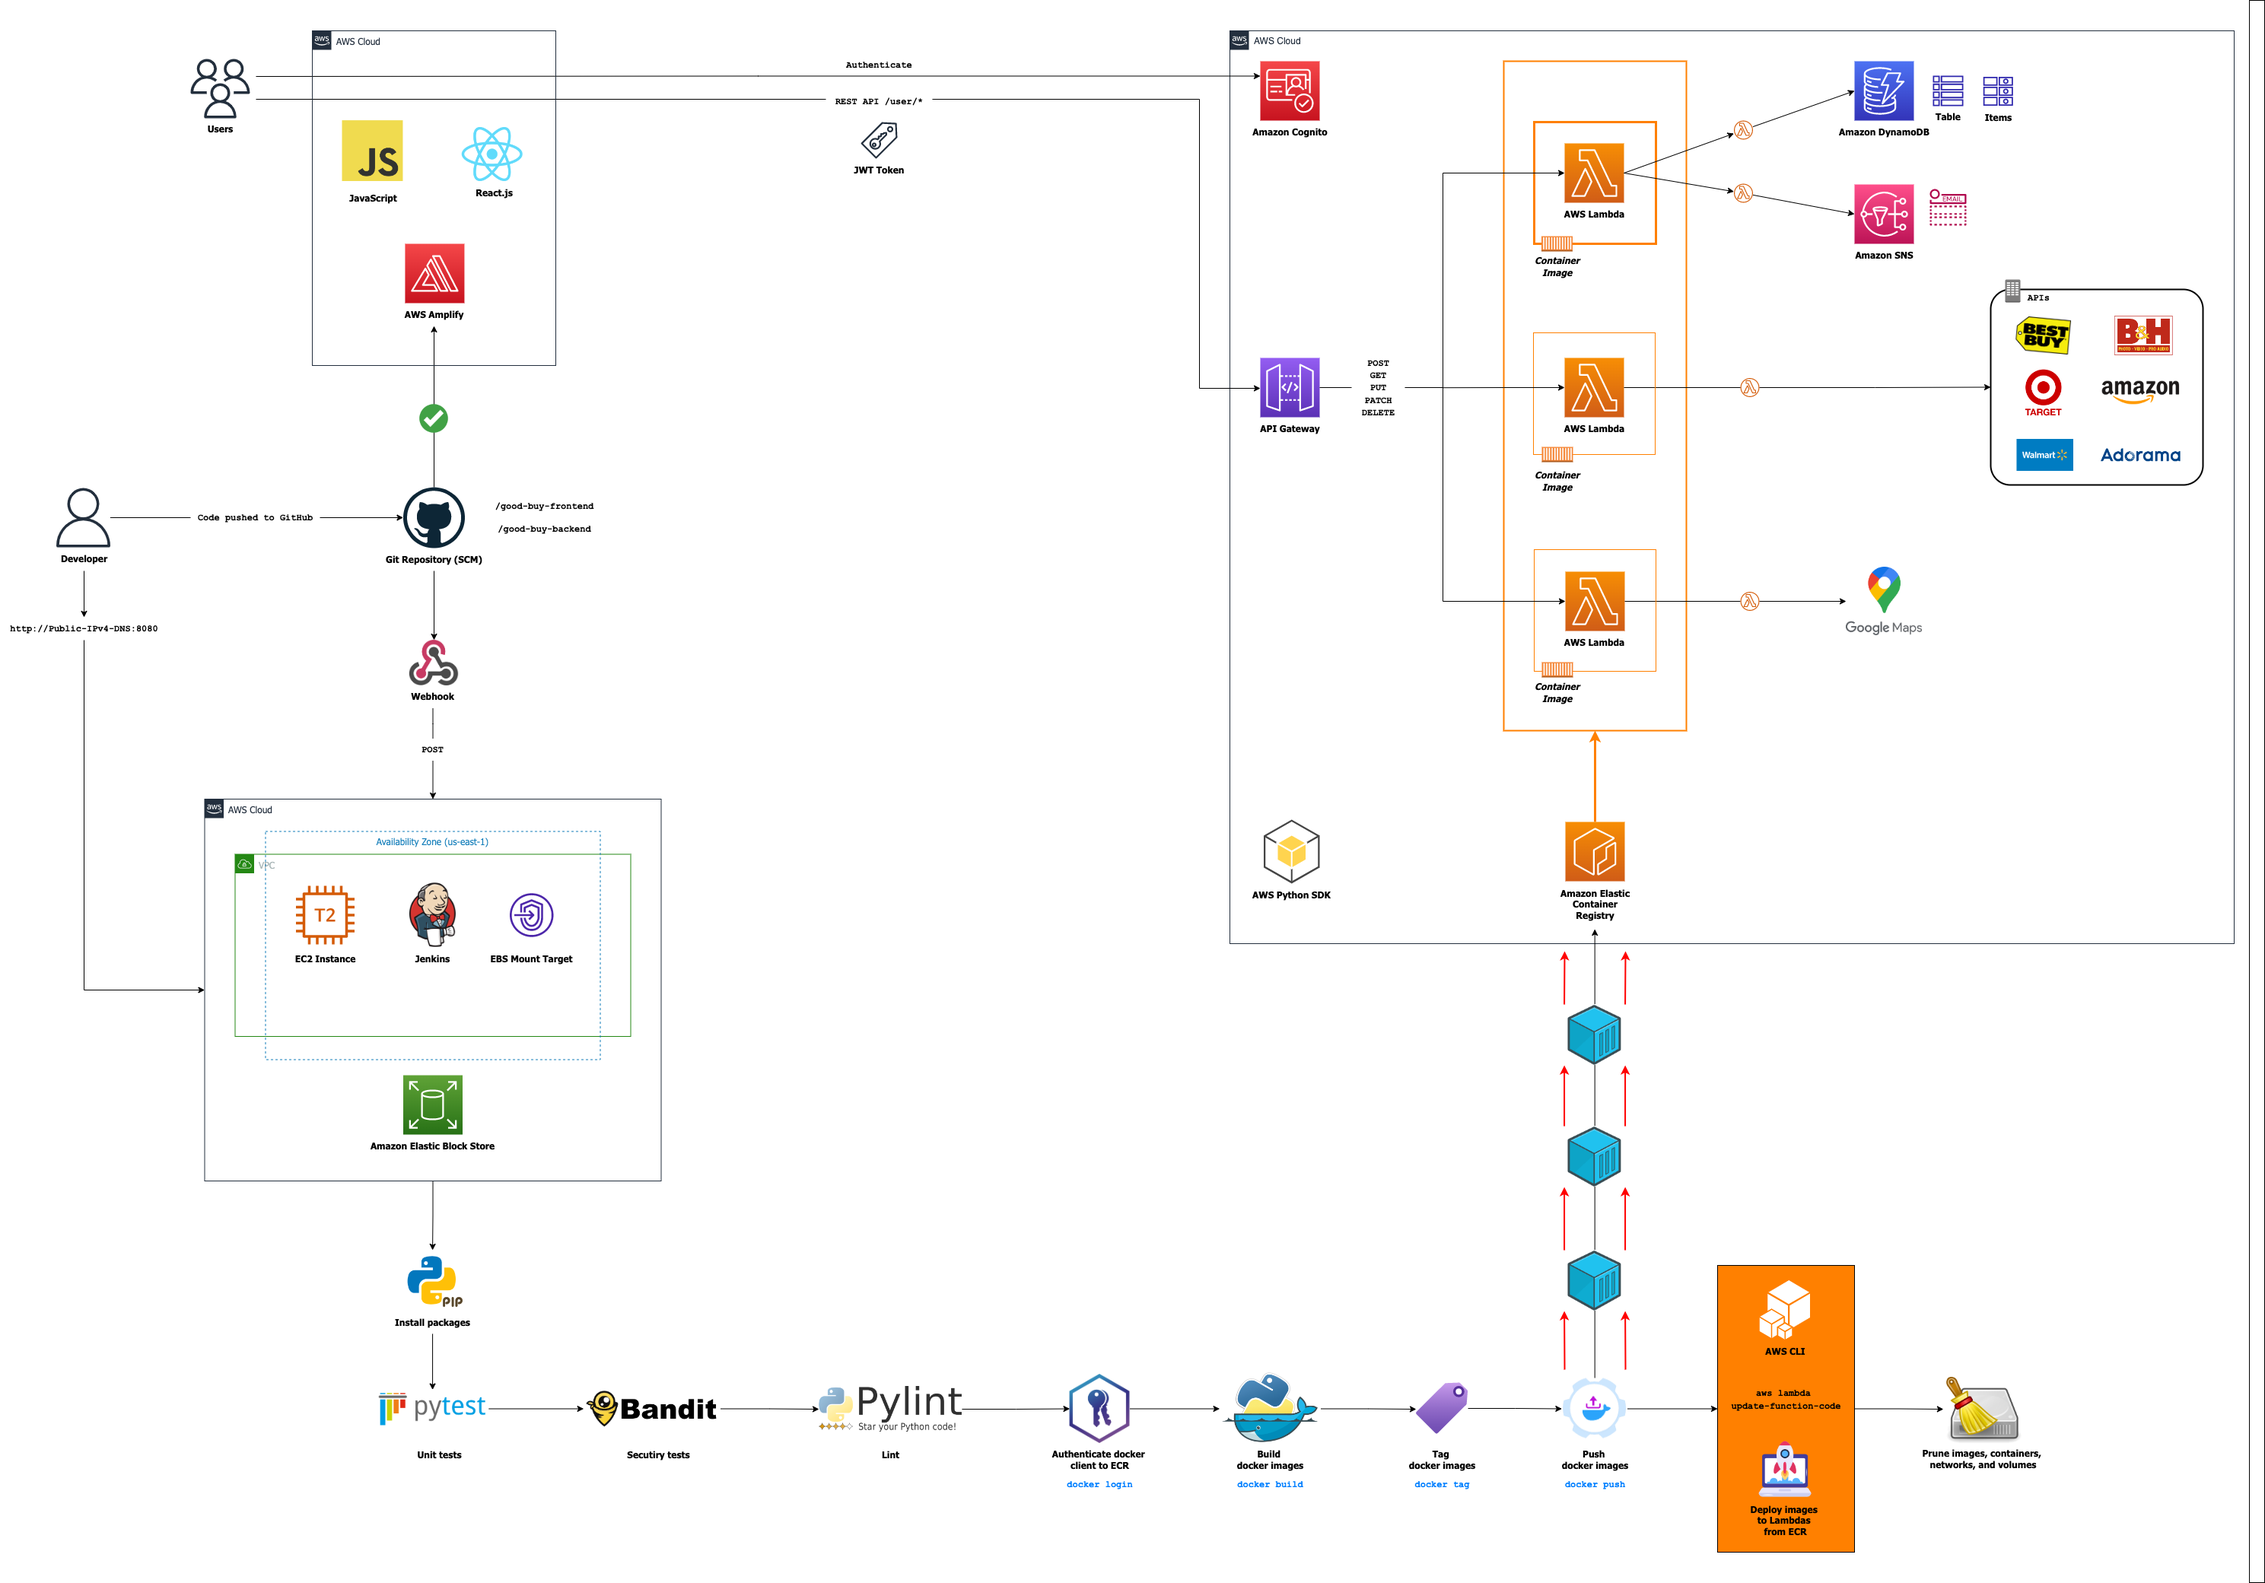
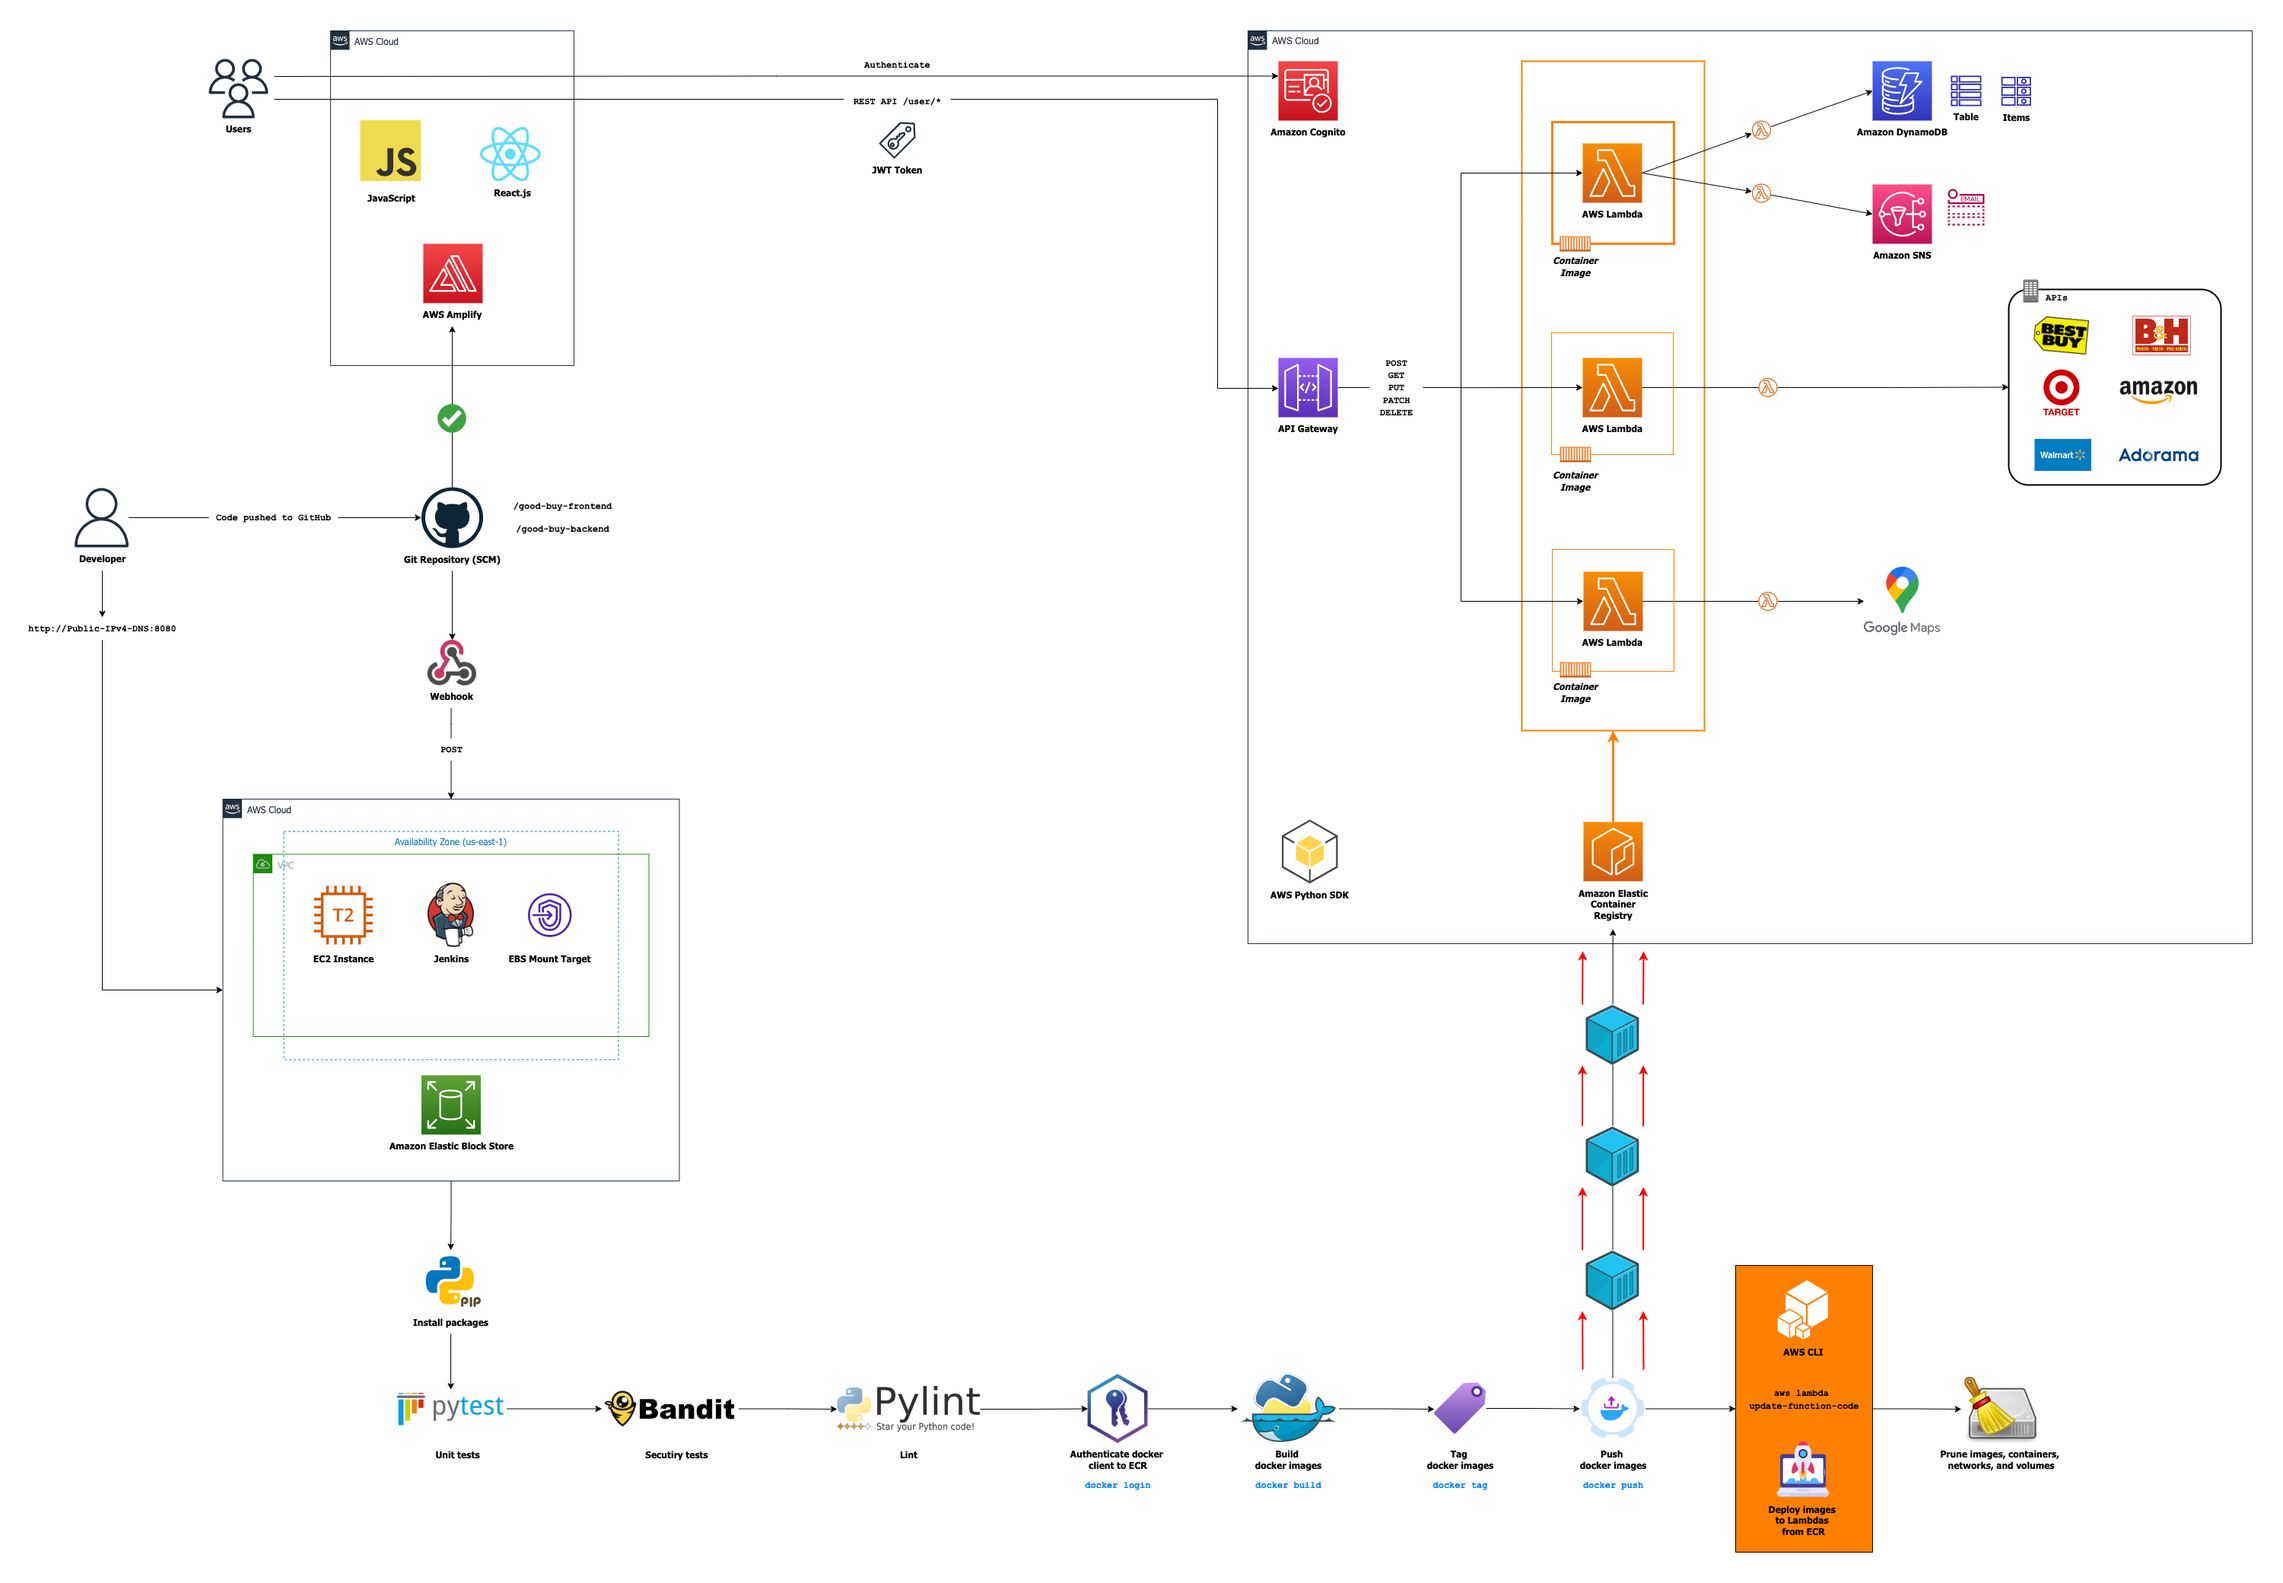
Removed unneeded box from the solution architecture.

diff --git a/README.md b/README.md
@@ -8,4 +8,4 @@ GoodBuy will not only help shoppers compare prices across brands, but also help 
 whenever they need to shop!
 
 
-![SolutionArchitecture](https://user-images.githubusercontent.com/64171964/224613925-3a8fd2b1-237f-456c-a856-9bd98320cf38.png)
+![SolutionArchitecture](https://user-images.githubusercontent.com/64171964/224614438-f5389c98-5031-4809-92ab-e89a4b74540a.png)
